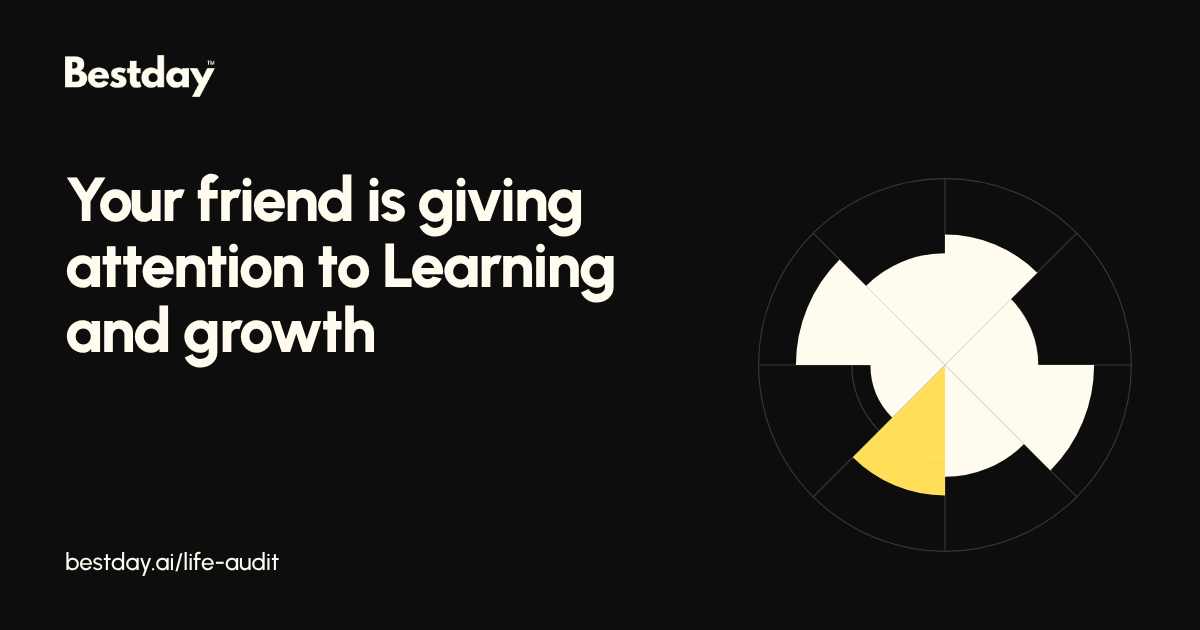
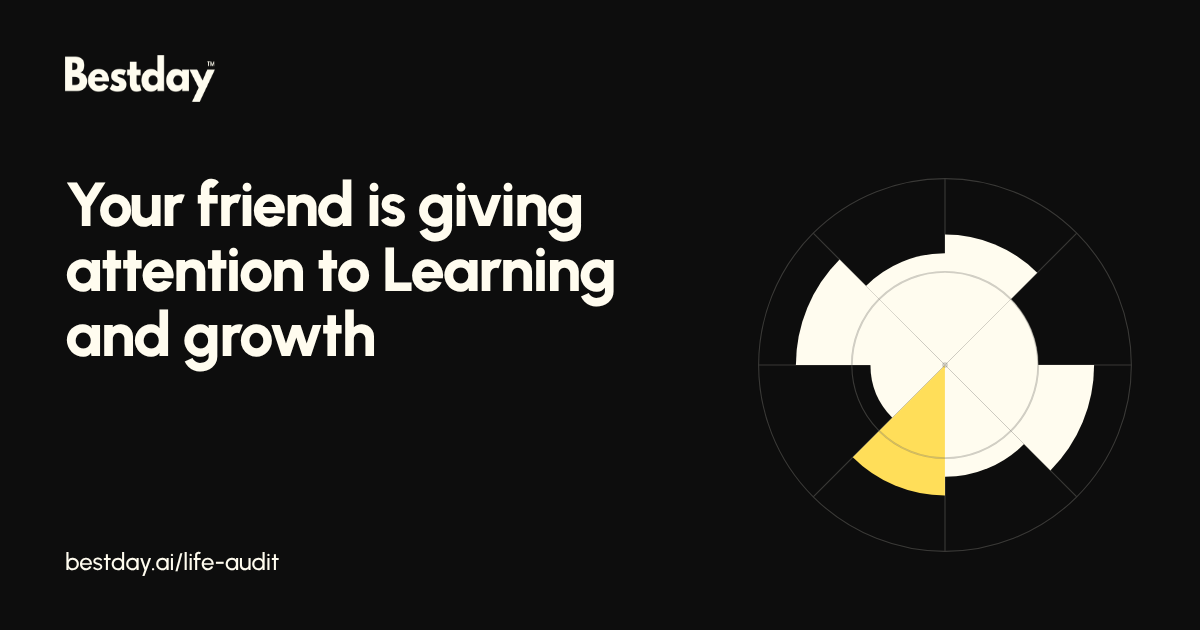
feat(life-audit): polish, accessibility and share card
Aligned choice cards without link arrows, one-row rating header with a
sized mini wheel, continuous wheel guides from one shared renderer,
accessibility and no-JS fixes, a recomposed personal share card with a
safe text measure, swap font loading with preloads and a matched
fallback, and rewritten email sequence copy with per-email buttons.

Claude-Session: https://claude.ai/code/session_01FZ8fmHiH7tNh5Uo2e5dMst

diff --git a/life-audit/client.ts b/life-audit/client.ts
@@ -3,7 +3,7 @@ import { areas, contextOptions, timeOptions, horizonOptions } from './data/audit
 import { copy as c } from './data/copy.mjs';
 import { appLinks } from '../src/lib/signup';
 import { personalCard, downloadCard } from './share-card';
-import { wheelGrid, validArea, referralLine, shareUrl, startsNewAudit } from '../src/lib/life-audit-sharing.mjs';
+import { wheelArtwork, validArea, referralLine, shareUrl, startsNewAudit } from '../src/lib/life-audit-sharing.mjs';
 import { LIFE_AUDIT_WEB } from './data/links.mjs';
 import * as audit from '../src/lib/life-audit.mjs';
 import { initAnalytics, trackLifeAudit, trackingContext } from '../src/lib/analytics';
@@ -21,35 +21,35 @@ initAnalytics(import.meta.env.PUBLIC_MIXPANEL_TOKEN);
 function persist(){try{sessionStorage.setItem(key,JSON.stringify({state,screen,selected,goal,firstStep,horizon,day}));}catch{}}
 function show(next){screen=next;for(const id of ['landing','flow','gate','result']) $('#'+id).hidden=id!==next; window.scrollTo(0,0);if(next==='gate')$('#gate h1').focus({preventScroll:true});persist();}
 function wheel(ratings, focus=null, animated=false, mini=false, liveArea=null){
- const geometry=audit.wheelGeometry(ratings); let order=0;
- const petals=geometry.map((s,i)=>{const angle=(s.startAngle+s.endAngle)/2; const delay=s.id===focus?7:order++;return `${s.missing?`<path class="missing" d="${s.sectorPath}"/>${ratings[s.id]===null&&!mini?`<text class="skip-label" x="${100+Math.cos(angle)*73}" y="${100+Math.sin(angle)*73}" text-anchor="middle">${c.skipped}</text>`:''}`:`<path class="petal ${s.id===focus?'focus':''} ${s.id===liveArea?'live-petal':''}" style="--order:${delay}" d="${s.path}"/>`}`;}).join('');
+ const petals=wheelArtwork(ratings,focus,{mini,liveArea});
  const labels=areas.map((a,i)=>{const angle=-Math.PI/2+(i+.5)*Math.PI/4;return `<text x="${100+Math.cos(angle)*125}" y="${100+Math.sin(angle)*125}" text-anchor="middle" dominant-baseline="middle">${a.short}</text>`}).join('');
- return `<div class="wheel ${mini?'mini':''}" ${animated?'data-animate-wheel':''}><svg viewBox="${mini?' -8 -8 216 216':'-55 -40 310 280'}" role="img" aria-label="${c.wheel}">${petals}${wheelGrid()}${mini?'':labels}</svg><ul class="sr-only">${areas.map(a=>`<li>${a.name}: ${Number.isInteger(ratings[a.id])?ratings[a.id]+' '+c.outOf:c.skipped}</li>`).join('')}</ul></div>`;
+ return `<div class="wheel ${mini?'mini':''}" ${animated?'data-animate-wheel':''}><svg viewBox="${mini?' -8 -8 216 216':'-55 -40 310 280'}" role="img" aria-label="${c.wheel}">${petals}${mini?'':labels}</svg><ul class="sr-only">${areas.map(a=>`<li>${a.name}: ${Number.isInteger(ratings[a.id])?ratings[a.id]+' '+c.outOf:c.skipped}</li>`).join('')}</ul></div>`;
 }
-function animateWheels(){const observer=new IntersectionObserver(entries=>{entries.forEach(e=>{if(e.isIntersecting){e.target.classList.add('animate');observer.unobserve(e.target)}})},{rootMargin:'0px 0px -35% 0px',threshold:.1});document.querySelectorAll('[data-animate-wheel]').forEach(el=>observer.observe(el));}
+const reducedMotion=()=>matchMedia('(prefers-reduced-motion: reduce)').matches;
+function animateWheels(){if(reducedMotion())return;const observer=new IntersectionObserver(entries=>{entries.forEach(e=>{if(e.isIntersecting){e.target.classList.add('animate');observer.unobserve(e.target)}})},{rootMargin:'0px 0px -35% 0px',threshold:.1});document.querySelectorAll('[data-animate-wheel]').forEach(el=>observer.observe(el));}
 const heading=(title,body='')=>`<h1 class="screen-heading" tabindex="-1">${title}</h1>${body?`<p>${body}</p>`:''}`;
-const options=(items,chosen)=>`<div class="options">${items.map(o=>`<button class="option ${chosen===o.id?'selected':''}" data-option="${o.id}" aria-pressed="${chosen===o.id}">${o.label}<span aria-hidden="true">↗</span></button>`).join('')}</div>`;
+const options=(items,chosen)=>`<div class="options">${items.map(o=>`<button class="option ${chosen===o.id?'selected':''}" data-option="${o.id}" aria-pressed="${chosen===o.id}"><span class="option-label">${o.label}</span><span class="choice-check" aria-hidden="true">${chosen===o.id?'✓':''}</span></button>`).join('')}</div>`;
 function render(){show('flow');const n=state.questionIndex;track('step_view',{step:n});$('[data-back]').hidden=n===12;
  if(n===0){$('#stage').innerHTML=heading(c.context)+options(contextOptions,state.segment);bindOptions(id=>{audit.recordSegment(state,id);render()});}
  else if(n===1){$('#stage').innerHTML=heading(c.before,c.beforeBody)+`<p class="muted">${c.beforeNote}</p><button class="button" data-begin>${c.begin}</button>`;$('[data-begin]').onclick=()=>{audit.startAudit(state);render()};}
  else if(n>=2&&n<=9){const area=areas[n-2],value=state.ratings[area.id];$('#stage').innerHTML=`<div class="progress-row"><span>${c.areaProgress(n-1)}</span>${wheel(state.ratings,null,false,true)}</div>`+heading(area.name)+`<p class="rating-prompt">${area.prompt}</p><div class="ratings" role="group" aria-label="${esc(area.name)}">${Array.from({length:11},(_,v)=>`<button class="rating ${value===v?'selected':''}" data-rating="${v}" aria-pressed="${value===v}" aria-label="${v} ${c.outOf}${v===5?', '+c.mixed:''}">${v}</button>`).join('')}</div><div class="scale-labels"><span>${c.low}</span><span>5 · ${c.mixed}</span><span>${c.high}</span></div><button class="quiet" data-skip>${c.skip}</button>`;document.querySelectorAll('[data-rating]').forEach(el=>el.onclick=()=>answer(Number(el.dataset.rating)));$('[data-skip]').onclick=()=>answer(null);}
- else if(n===10){const available=audit.focusOptions(state);$('#stage').innerHTML=available.length?heading(c.focus,c.focusBody)+options(available.map(a=>({id:a.id,label:`${a.name} <span>${state.ratings[a.id]}/10</span>`})),state.focusArea):heading(c.empty,c.emptyBody)+`<button class="button" data-return>${c.emptyButton}</button>`;if(available.length)bindOptions(id=>{audit.recordFocus(state,id);render()});else $('[data-return]').onclick=()=>{state.questionIndex=2;render()};}
+ else if(n===10){const available=audit.focusOptions(state);$('#stage').innerHTML=available.length?heading(c.focus,c.focusBody)+options(available.map(a=>({id:a.id,label:`<span class="area-name">${a.name}</span><span class="rating-summary"><span class="rating-value">${state.ratings[a.id]}/10</span><span class="rating-bar" aria-hidden="true"><span style="width:${state.ratings[a.id]*10}%"></span></span></span>`})),state.focusArea):heading(c.empty,c.emptyBody)+`<button class="button" data-return>${c.emptyButton}</button>`;if(available.length)bindOptions(id=>{audit.recordFocus(state,id);render()});else $('[data-return]').onclick=()=>{state.questionIndex=2;render()};}
  else if(n===11){$('#stage').innerHTML=heading(c.time,c.timeBody)+options(timeOptions,state.timeOption);bindOptions(id=>{audit.recordTime(state,id);track('quiz_complete');render()});}
- else {$('#stage').innerHTML=heading(c.loading)+wheel(state.ratings,state.focusArea,true);animateWheels();setTimeout(teaser,1500);}
+ else {$('#stage').innerHTML=heading(c.loading)+wheel(state.ratings,state.focusArea,true);animateWheels();setTimeout(teaser,reducedMotion()?0:1500);}
  persist();const h=$('#stage h1');h?.focus({preventScroll:true});
 }
 function bindOptions(fn){document.querySelectorAll('[data-option]').forEach(el=>el.onclick=()=>fn(el.dataset.option));}
-function answer(value){if(busy)return;busy=true;const area=areas[state.questionIndex-2];if(value!==null){document.querySelectorAll('[data-rating]').forEach(el=>{el.classList.toggle('selected',Number(el.dataset.rating)===value);el.setAttribute('aria-pressed',String(Number(el.dataset.rating)===value))});}const updated={...state.ratings,[area.id]:value};$('.progress-row .wheel').outerHTML=wheel(updated,null,false,true,area.id);track('question_answered',{area_id:area.id});setTimeout(()=>{audit.recordRating(state,area.id,value);busy=false;render()},250);}
-function teaser(){show('flow');screen='teaser';$('[data-back]').hidden=false;const area=areas.find(a=>a.id===state.focusArea);$('#stage').innerHTML=`<div class="teaser-wheel">${wheel(state.ratings,state.focusArea,true)}</div><p class="kicker">${c.focusLabel}</p><h1 class="screen-heading focus-title">${area.name}</h1><p>${area.reflection}</p><h2 class="teaser-heading">${c.locked}</h2><div class="locked">${c.tiles.map(t=>`<div class="lock"><span aria-hidden="true">▣</span>${t}</div>`).join('')}</div><button class="button" data-gate>${c.show}</button><p class="small">${c.emailNote}</p>`;$('[data-gate]').onclick=()=>show('gate');track('teaser_view');animateWheels();persist();}
-$('[data-start]').onclick=()=>{track('quiz_start');render()};
+function answer(value){if(busy)return;busy=true;const area=areas[state.questionIndex-2];if(value!==null){document.querySelectorAll('[data-rating]').forEach(el=>{el.classList.toggle('selected',Number(el.dataset.rating)===value);el.setAttribute('aria-pressed',String(Number(el.dataset.rating)===value))});}const updated={...state.ratings,[area.id]:value};$('.progress-row .wheel').outerHTML=wheel(updated,null,false,true,area.id);track('question_answered',{area_id:area.id});setTimeout(()=>{audit.recordRating(state,area.id,value);busy=false;render()},reducedMotion()?0:250);}
+function teaser(){show('flow');screen='teaser';$('[data-back]').hidden=false;const area=areas.find(a=>a.id===state.focusArea);$('#stage').innerHTML=`<div class="teaser-wheel">${wheel(state.ratings,state.focusArea,true)}</div><p class="kicker">${c.focusLabel}</p><h1 class="screen-heading focus-title">${area.name}</h1><p>${area.reflection}</p><h2 class="teaser-heading">${c.locked}</h2><div class="locked">${c.tiles.map(t=>`<div class="lock"><span aria-hidden="true">▣</span>${t}</div>`).join('')}</div><button class="button" data-gate>${c.show}</button><p class="small">${c.emailNote}</p>`;$('[data-gate]').onclick=()=>show('gate');$('#stage h1').tabIndex=-1;$('#stage h1').focus({preventScroll:true});track('teaser_view');animateWheels();persist();}
+$('[data-start]').onclick=event=>{event.preventDefault();track('quiz_start');render()};
 $('[data-back]').onclick=()=>{if(busy)return;if(screen==='teaser')state.questionIndex=11;else audit.goBack(state);render()};
 $('[data-teaser-back]').onclick=teaser;
 const phone=$('input[name=whatsapp]');phone.oninput=()=>{const typed=Boolean(phone.value.trim());$('[data-phone-consent]').hidden=!typed;if(!typed)$('input[name=whatsappConsent]').checked=false};
 $('[data-capture-form]').onsubmit=async event=>{event.preventDefault();const button=$('#gate button[type=submit]');button.disabled=true;const form=new FormData(event.currentTarget);$('[data-status]').textContent=c.sending;try{await submitCapture({firstName:String(form.get('firstName')),email:String(form.get('email')),whatsapp:String(form.get('whatsapp')),whatsappConsent:Boolean(phone.value.trim())&&form.get('whatsappConsent')==='on',consent:true,archetype:state.focusArea,category:state.segment,quiz:'life_audit',focusArea:state.focusArea,segment:state.segment,timeOption:state.timeOption,horizon,ratings:state.ratings,source:trackingContext()},import.meta.env.PUBLIC_CAPTURE_ENDPOINT);track('capture_submit');fullResult();}catch{$('[data-status]').textContent=c.error}finally{button.disabled=false}};
 function fullResult(){const area=areas.find(a=>a.id===state.focusArea);const suggestions=audit.suggestionsFor(area.id,state.timeOption);if(!goal){goal=suggestions[selected].goal;firstStep=suggestions[selected].firstStep;}show('result');$('[data-result-wheel]').innerHTML=wheel(state.ratings,state.focusArea,true);$('[data-focus-name]').textContent=area.name;$('[data-result-context]').textContent=timeOptions.find(t=>t.id===state.timeOption).label.replace('About 1 hour','About 1 hour a week').replace('2 to 3 hours','2 to 3 hours a week');$('[data-reflection]').textContent=audit.wheelReflection(state.ratings);$('[data-area-reflection]').textContent=area.reflection;
- $('[data-goals]').innerHTML=suggestions.map((s,i)=>`<button class="option ${i===selected?'selected':''}" aria-pressed="${i===selected}" data-goal="${i}">${esc(s.goal)}<span aria-hidden="true">${i===selected?'✓':'↗'}</span></button>`).join('');
+ $('[data-goals]').innerHTML=suggestions.map((s,i)=>`<button class="option ${i===selected?'selected':''}" aria-pressed="${i===selected}" data-goal="${i}">${esc(s.goal)}<span aria-hidden="true">${i===selected?'✓':''}</span></button>`).join('');
  document.querySelectorAll('[data-goal]').forEach(el=>el.onclick=()=>{selected=Number(el.dataset.goal);goal=suggestions[selected].goal;firstStep=suggestions[selected].firstStep;track('goal_selected');updateGoalCards();});
- function updateGoalCards(){document.querySelectorAll('[data-goal]').forEach(el=>{const active=Number(el.dataset.goal)===selected;el.classList.toggle('selected',active);el.setAttribute('aria-pressed',String(active));el.querySelector('span').textContent=active?'✓':'↗'});$('[data-goal-edit]').value=goal;$('#first-step').value=firstStep;updateCommitment();persist();}
+ function updateGoalCards(){document.querySelectorAll('[data-goal]').forEach(el=>{const active=Number(el.dataset.goal)===selected;el.classList.toggle('selected',active);el.setAttribute('aria-pressed',String(active));el.querySelector('span').textContent=active?'✓':''});$('[data-goal-edit]').value=goal;$('#first-step').value=firstStep;updateCommitment();persist();}
  updateGoalCards();$('[data-goal-edit]').oninput=e=>{goal=e.target.value;updateCommitment();persist()};$('[data-goal-edit]').onchange=()=>track('goal_edited',{edited:true});$('#first-step').oninput=e=>{firstStep=e.target.value;persist()};
  $('[data-horizons]').innerHTML=horizonOptions.map(h=>`<button class="${h.id===horizon?'selected':''}" aria-pressed="${h.id===horizon}" data-horizon="${h.id}">${h.label}</button>`).join('');document.querySelectorAll('[data-horizon]').forEach(el=>el.onclick=()=>{horizon=Number(el.dataset.horizon);document.querySelectorAll('[data-horizon]').forEach(b=>{b.classList.toggle('selected',b===el);b.setAttribute('aria-pressed',String(b===el))});track('horizon_selected',{horizon});persist()});
  $('[data-days]').innerHTML=c.days.map(d=>`<button class="${d===day?'selected':''}" aria-pressed="${d===day}" data-day="${d}">${d}</button>`).join('');document.querySelectorAll('[data-day]').forEach(el=>el.onclick=()=>{day=el.dataset.day;document.querySelectorAll('[data-day]').forEach(b=>{b.classList.toggle('selected',b===el);b.setAttribute('aria-pressed',String(b===el))});persist()});const line=referralLine(ref,state.focusArea);$('[data-referral]').hidden=!line;if(line){$('[data-referral-title]').textContent=`Your friend chose ${areas.find(a=>a.id===ref).name}. You chose ${area.name}.`;$('[data-referral-line]').textContent=line;}track('result_view');animateWheels();$('[data-focus-name]').focus({preventScroll:true});persist();}
@@ -61,7 +61,7 @@ $('[data-audit-share]').onclick=async()=>{track('share_click',{channel:'share'})
 for(const channel of ['save','instagram'])$('[data-audit-'+channel+']').href='#';
 for(const channel of ['save','instagram'])$('[data-audit-'+channel+']').onclick=async event=>{event.preventDefault();track('share_click',{channel});try{const file=await personalCard({area:areas.find(a=>a.id===state.focusArea),goal,horizon,ratings:state.ratings,includeWheel:$('[data-include-wheel]').checked});if(channel==='instagram' && navigator.canShare?.({files:[file]}) && navigator.share){await navigator.share({files:[file],text:message()});}else{downloadCard(file);track('card_download',{channel});}}catch(error){if(error.name!=='AbortError')$('[data-share-status]').textContent='Your card could not be saved. Please try again.'}};
 for(const el of [$('[data-signup]'),$('[data-referral-signup]')]){el.href=LIFE_AUDIT_WEB || appLinks.web;el.onclick=()=>track('signup_click',{channel:'web'});}
-$('[data-again]').onclick=()=>{state=audit.createAuditState();$('[data-include-wheel]').checked=false;selected=0;goal='';firstStep='';horizon=4;day=null;show('landing');track('landing_view')};
+$('[data-again]').onclick=()=>{state=audit.createAuditState();$('[data-include-wheel]').checked=false;selected=0;goal='';firstStep='';horizon=4;day=null;show('landing');$('[data-start]').focus();track('landing_view')};
 document.addEventListener('keydown',event=>{if(screen!=='flow'||state.questionIndex<2||state.questionIndex>9||event.altKey||event.ctrlKey||event.metaKey)return;if(/^\d$/.test(event.key)){event.preventDefault();answer(Number(event.key))}else if(['ArrowLeft','ArrowRight','ArrowUp','ArrowDown'].includes(event.key)){event.preventDefault();const buttons=[...document.querySelectorAll('[data-rating]')];const index=buttons.indexOf(document.activeElement);const next=Math.max(0,Math.min(10,(index<0?5:index)+(['ArrowRight','ArrowUp'].includes(event.key)?1:-1)));buttons[next].focus()}});
 try{const fresh=startsNewAudit(location.search,performance.getEntriesByType('navigation')[0]?.type);const saved=fresh?null:audit.restoreAuditProgress(sessionStorage.getItem(key));if(saved){({state,selected,goal,firstStep,horizon,day}=saved);if(saved.screen==='result')fullResult();else if(saved.screen==='gate')show('gate');else teaser();}}catch{}
 if(ref)track('referral_landing',{ref});

diff --git a/life-audit/share-card.ts b/life-audit/share-card.ts
@@ -1,16 +1,24 @@
-import { exampleWheel, escapeXml, wrapLines } from '../src/lib/life-audit-sharing.mjs';
+import { exampleWheel, escapeXml, wrapLines, fitCardGoal } from '../src/lib/life-audit-sharing.mjs';
 // All personal artwork stays in this browser. Assets below are public brand files.
 let assetsPromise: Promise<string[]>;
 function assets(){return assetsPromise ||= Promise.all(['fonts/Urbanist-Medium.ttf','fonts/Urbanist-ExtraBold.ttf','logos/wordmark-white.png'].map(async path=>{const blob=await (await fetch(`/life-audit/assets/${path}`)).blob();return new Promise<string>(resolve=>{const reader=new FileReader();reader.onload=()=>resolve(String(reader.result));reader.readAsDataURL(blob)})}));}
 export async function personalCard({area,goal,horizon,ratings,includeWheel}:any){
- await document.fonts.ready;
+ await Promise.all([document.fonts.load('500 60px Urbanist'),document.fonts.load('800 76px Urbanist')]);
  const [medium,bold,logo]=await assets();
  const measure=document.createElement('canvas').getContext('2d')!;measure.font='500 54px Urbanist';
- const lines=wrapLines(goal,(s:string)=>measure.measureText(s).width,920,4);
+ const {size,lines}=fitCardGoal(goal,(s:string,fontSize:number)=>{measure.font=`500 ${fontSize}px Urbanist`;return measure.measureText(s).width});
  const areaLines=wrapLines(area.name,(s:string)=>{measure.font='800 76px Urbanist';return measure.measureText(s).width},920,2);
  const focusOnly=Object.fromEntries(Object.keys(ratings).map(id=>[id,id===area.id?10:0]));
  const wheel=exampleWheel(area.id,includeWheel?ratings:focusOnly);
- const svg=`<svg xmlns="http://www.w3.org/2000/svg" width="1080" height="1350"><style>@font-face{font-family:Urbanist;src:url('${medium}');font-weight:500}@font-face{font-family:Urbanist;src:url('${bold}');font-weight:800}text{font-family:Urbanist;fill:#FFFCEF}</style><rect width="1080" height="1350" fill="#0D0D0D"/><image href="${logo}" x="80" y="64" width="190" height="60"/><text x="80" y="215" font-size="34">This month I'm giving attention to</text>${areaLines.map((s:string,i:number)=>`<text x="80" y="${310+i*88}" font-size="76" font-weight="800" style="fill:#FFDE59">${escapeXml(s)}</text>`).join('')}${lines.map((s:string,i:number)=>`<text x="80" y="${505+i*72}" font-size="54">${escapeXml(s)}</text>`).join('')}<text x="80" y="845" font-size="36">For ${horizon} weeks</text><svg x="660" y="900" width="300" height="300" viewBox="-10 -10 220 220">${wheel.replace(/^<svg[^>]*>|<\/svg>$/g,'')}</svg><text x="80" y="1250" font-size="30">bestday.ai/life-audit</text></svg>`;
+ // Layout, top to bottom: wordmark, the wheel as the hero, then the commitment anchored to the lower half.
+ const areaTop=820, areaStep=84;
+ const goalY=areaTop+(areaLines.length-1)*areaStep+82;
+ const lineHeight=size*1.2;
+ const horizonY=goalY+(lines.length-1)*lineHeight+56;
+ const pillText=`For ${horizon} weeks`;
+ measure.font='800 28px Urbanist';
+ const pillWidth=Math.ceil(measure.measureText(pillText).width*1.1)+48;
+ const svg=`<svg xmlns="http://www.w3.org/2000/svg" width="1080" height="1350"><style>@font-face{font-family:Urbanist;src:url('${medium}');font-weight:500}@font-face{font-family:Urbanist;src:url('${bold}');font-weight:800}text{font-family:Urbanist;fill:#FFFCEF}</style><rect width="1080" height="1350" fill="#0D0D0D"/><image href="${logo}" x="80" y="72" width="170" height="54"/><svg x="290" y="150" width="500" height="500" viewBox="-10 -10 220 220">${wheel.replace(/^<svg[^>]*>|<\/svg>$/g,'')}</svg><text x="80" y="${areaTop-92}" font-size="34">This month I'm giving attention to</text>${areaLines.map((s:string,i:number)=>`<text x="80" y="${areaTop+i*areaStep}" font-size="76" font-weight="800" style="fill:#FFDE59">${escapeXml(s)}</text>`).join('')}${lines.map((s:string,i:number)=>`<text x="80" y="${goalY+i*lineHeight}" font-size="${size}">${escapeXml(s)}</text>`).join('')}<rect x="80" y="${horizonY-36}" width="${pillWidth}" height="54" rx="27" fill="none" stroke="#FFFCEF" stroke-opacity=".4"/><text x="104" y="${horizonY}" font-size="28" font-weight="800">${escapeXml(pillText)}</text><text x="80" y="1278" font-size="28" style="fill:#FFFCEF;opacity:.7">bestday.ai/life-audit</text></svg>`;
  const url=URL.createObjectURL(new Blob([svg],{type:'image/svg+xml'}));
  try{const image=new Image();image.src=url;await image.decode();const canvas=document.createElement('canvas');canvas.width=1080;canvas.height=1350;canvas.getContext('2d')!.drawImage(image,0,0);const blob=await new Promise<Blob>((resolve,reject)=>canvas.toBlob(b=>b?resolve(b):reject(new Error('Card unavailable')),'image/png'));return new File([blob],'bestday-my-commitment.png',{type:'image/png'});}finally{URL.revokeObjectURL(url)}
 }
